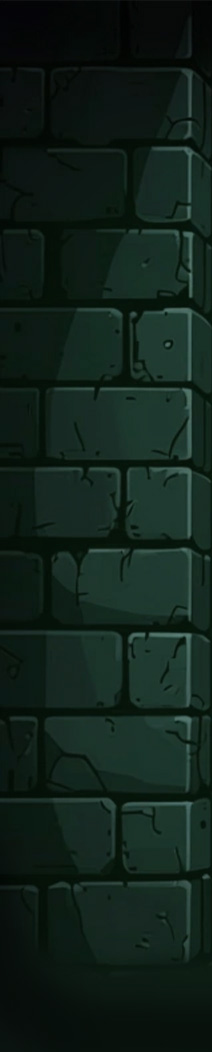
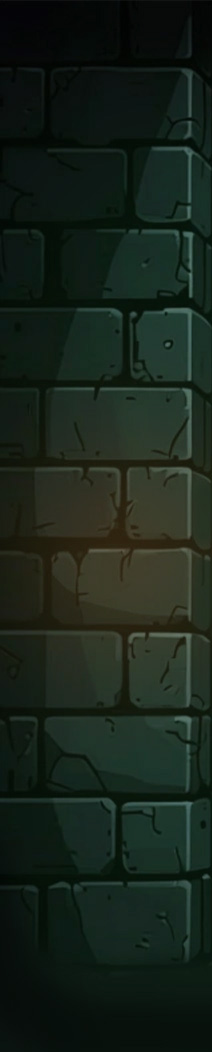
adj scones and lighting effects

Changed region(s): [[0.1415, 0.4259, 1.0, 0.6388]]

diff --git a/src/Zenith.jsx b/src/Zenith.jsx
@@ -20,7 +20,7 @@ const Zenith = () => {
     <Timer />
 
     <Cube />
-     <div className="leftColumnLight absolute top-[4.8rem] left-[2.34rem] hidden md:block">
+     <div className="leftColumnLight absolute top-[8rem] left-[4rem] hidden md:block">
       < LeftWallSconce />
     </div>
  <div className="leftColumnWrapper ">
@@ -31,12 +31,12 @@ const Zenith = () => {
 
 
 
- <div className="rightColumnLight absolute top-[4.8rem] right-[2.34rem] hidden md:block  ">
+ <div className="rightColumnLight  absolute top-[8rem] right-[4rem] hidden md:block  ">
       < RightWallSconce />
  </div>
  <div className="rightColumnWrapper">
    <img src="/Goody_Column-Left-2.jpg " alt="right Overlay"
-    className="rightColumn-overlay rotate-180" />
+    className="rightColumn-overlay rotate-180 w-fit h-auto" />
  </div>
 
 

diff --git a/src/assets/Components/LeftWallSconce.jsx b/src/assets/Components/LeftWallSconce.jsx
@@ -46,7 +46,8 @@ const LeftWallSconce = () => {
         src={flameFrames[currentFrame]}
         alt={`Flame frame ${currentFrame + 1}`}
         loading="lazy"
-        className="flame "
+        className="flame scale-[200%] "
+        
       />
 </a>
     </div>

diff --git a/src/assets/Components/RightWallSconce.jsx b/src/assets/Components/RightWallSconce.jsx
@@ -47,7 +47,7 @@ const RightWallSconce = () => {
         src={flameFrames[currentFrame]}
         alt={`Flame frame ${currentFrame + 1}`}
         loading="lazy"
-        className="flame "
+        className="flame scale-[200%] "
       />
       </a>
     </div>
